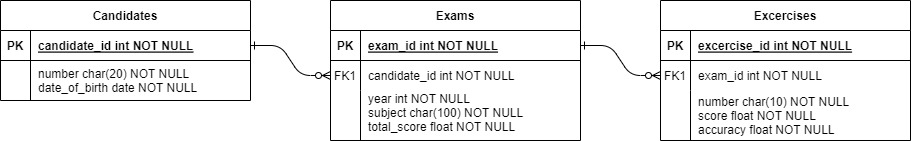
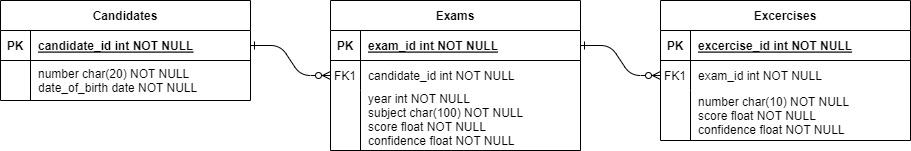
refactoring accuracy to confidence & added to exam

diff --git a/backend/app/core/database_handler.py b/backend/app/core/database_handler.py
@@ -34,7 +34,8 @@ def insert_exam(exam, db_candidate):
     db_exam = Exam.get_or_none(
         year=exam[Exam.year.name],
         subject=exam[Exam.subject.name],
-        # total_score=exam[Exam.total_score.name],
+        # score=exam[Exam.score.name],
+        # confidence=exam[Exam.confidence.name],
         candidate=db_candidate
     )
 
@@ -43,7 +44,8 @@ def insert_exam(exam, db_candidate):
         db_exam = Exam.create(
             year=exam[Exam.year.name],
             subject=exam[Exam.subject.name],
-            total_score=exam[Exam.total_score.name],
+            score=exam[Exam.score.name],
+            confidence=exam[Exam.confidence.name],
             candidate=db_candidate
         )
     else:
@@ -62,7 +64,7 @@ def insert_exercise(exercise, db_exam):
     db_exercise = Exercise.get_or_none(
         number=exercise[Exercise.number.name],
         # score=exercise[Exercise.score.name],
-        # accuracy=exercise[Exercise.accuracy.name],
+        # confidence=exercise[Exercise.confidence.name],
         exam=db_exam
     )
 
@@ -71,7 +73,7 @@ def insert_exercise(exercise, db_exam):
         db_exercise = Exercise.create(
             number=exercise[Exercise.number.name],
             score=exercise[Exercise.score.name],
-            accuracy=exercise[Exercise.accuracy.name],
+            confidence=exercise[Exercise.confidence.name],
             exam=db_exam
         )
     else:
@@ -183,7 +185,7 @@ def save_scan_db(cv_data: cv_res.CVResult):
     return exam_id
 
 
-def update_exam(exam_id, exam):
+def update_exam(exam_id, exam, confidence):
     """
     DB update @Exam
     """
@@ -193,13 +195,14 @@ def update_exam(exam_id, exam):
     except DoesNotExist:
         return False
 
-    db_exam.total_score = exam.total_score
+    db_exam.score = exam.score
+    db_exam.confidence = confidence
     db_exam.save()
 
     return True
 
 
-def update_exercise(exercise_id, exercise, accuracy):
+def update_exercise(exercise_id, exercise, confidence):
     """
     DB update @Exercise
     """
@@ -210,7 +213,7 @@ def update_exercise(exercise_id, exercise, accuracy):
         return False
 
     db_exercise.score = exercise.score
-    db_exercise.accuracy = accuracy
+    db_exercise.confidence = confidence
     db_exercise.save()
 
     return True

diff --git a/backend/app/core/scanner.py b/backend/app/core/scanner.py
@@ -63,7 +63,7 @@ def validate_cv_result(cv_data):
 
     message = None
 
-    if cv_data.exam.total_score != cv_data.exam.calc_total_score():
+    if cv_data.exam.score != cv_data.exam.calc_excercises_score():
         message = const.Validation.W_SCORE_EQ
 
     return message
@@ -77,8 +77,8 @@ def get_dummy_cv_result():
     import json
 
     json_data = '{"candidate":{"number":"CHSG-23.123","date_of_birth":"2010-01-01"},"exam":{"year":2023,' \
-                '"subject":"ABC English","total_score":4,"exercises":[{"number":"1.a","score":1.75,' \
-                '"accuracy":0.88},{"number":"1.b","score":2.00,"accuracy":0.98}]}}'
+                '"subject":"ABC English","score":4,"exercises":[{"number":"1.a","score":1.75,' \
+                '"confidence":0.88},{"number":"1.b","score":2.00,"accuracy":0.98}]}}'
 
     data_dict = json.loads(json_data)
 
@@ -88,9 +88,9 @@ def get_dummy_cv_result():
     exam_data = data_dict['exam']
     exercises = []
     for exercise_data in exam_data['exercises']:
-        exercise = cv_res.ExamExercise(exercise_data['number'], exercise_data['score'], exercise_data['accuracy'])
+        exercise = cv_res.Exercise(exercise_data['number'], exercise_data['score'], exercise_data['confidence'])
         exercises.append(exercise)
 
-    exam = cv_res.Exam(exam_data['year'], exam_data['subject'], exam_data['total_score'], exercises)
+    exam = cv_res.Exam(exam_data['year'], exam_data['subject'], exam_data['score'], exercises)
 
     return cv_res.CVResult(candidate, exam)

diff --git a/backend/app/core/admin.py b/backend/app/core/admin.py
@@ -12,11 +12,13 @@ def build_exam_full(exam):
     # candidate
     candidate = db.read_candidate(exam[model.Exam.candidate.name])
 
+    # exam
     exam_rs = ExamFull(
         id=exam[model.Exam.id.name],
         year=exam[model.Exam.year.name],
         subject=exam[model.Exam.subject.name],
-        total_score=exam[model.Exam.total_score.name],
+        score=exam[model.Exam.score.name],
+        confidence=exam[model.Exam.confidence.name],
         candidate=Candidate(
             id=candidate[model.Candidate.id.name],
             number=candidate[model.Candidate.number.name],
@@ -74,7 +76,7 @@ def update_exam(exam_id, exam):
     Update existing exam
     """
 
-    return BaseResponse(success=db.update_exam(exam_id, exam))
+    return BaseResponse(success=db.update_exam(exam_id, exam, const.Exam.CONFIDENCE_MAX))
 
 
 def update_exercise(exercise_id, exercise):
@@ -82,4 +84,4 @@ def update_exercise(exercise_id, exercise):
     Update existing exercise
     """
 
-    return BaseResponse(success=db.update_exercise(exercise_id, exercise, const.Exercise.ACCURACY_MAX))
+    return BaseResponse(success=db.update_exercise(exercise_id, exercise, const.Exercise.CONFIDENCE_MAX))

diff --git a/backend/app/api/router.py b/backend/app/api/router.py
@@ -1,5 +1,5 @@
 from fastapi import APIRouter, HTTPException
-from .schema import BaseResponse, ExamFullResponse, ExamFullListResponse, ExamTotalScore, ExerciseScore
+from .schema import BaseResponse, ExamFullResponse, ExamFullListResponse, Score
 import core.admin as admin
 import core.scanner as scanner
 import util.constant as const
@@ -29,7 +29,7 @@ async def get_exam(examId: int):
 
 
 @router.post("/exams/{examId}", response_model=BaseResponse, response_model_exclude_none=True)
-async def post_exam(examId: int, exam: ExamTotalScore):
+async def post_exam(examId: int, exam: Score):
     """
     Update existing exam
     """
@@ -57,7 +57,7 @@ async def get_exams(year: int = None, subject: str = None):
 
 
 @router.post("/exercises/{exercisesId}", response_model=BaseResponse, response_model_exclude_none=True)
-async def post_exercise(exercisesId: int, exercise: ExerciseScore):
+async def post_exercise(exercisesId: int, exercise: Score):
     """
     Update existing exercise
     """

diff --git a/backend/app/main.py b/backend/app/main.py
@@ -1,18 +1,17 @@
 from fastapi import FastAPI
 from api import router
-import model.database as db
-import model.model as model
+from model import database, model
 
 # run app
 app = FastAPI()
 app.include_router(router.router)
 
 # run db
-db.db.connect()
-db.db.create_tables(model.get_models())
+database.db.connect()
+database.db.create_tables(model.get_models())
 
 # dummy data to run
 candidate = model.Candidate.create(number='1', date_of_birth='1990-01-01')
-exam = model.Exam.create(year='2017', subject='Math', total_score=14.5, candidate=candidate)
-model.Exercise.create(number='1', score=10, accuracy=0.8, exam=exam)
-model.Exercise.create(number='2', score=4.5, accuracy=0.7, exam=exam)
+exam = model.Exam.create(year='2017', subject='Math', score=14.5, confidence=0.9, candidate=candidate)
+model.Exercise.create(number='1', score=10, confidence=0.8, exam=exam)
+model.Exercise.create(number='2', score=4.5, confidence=0.7, exam=exam)

diff --git a/backend/app/api/schema.py b/backend/app/api/schema.py
@@ -18,36 +18,34 @@ class Exam(BaseModel):
     id: int
     year: int
     subject: str
-    total_score: float
+    score: float
+    confidence: float
 
 
 class Exercise(BaseModel):
     id: int
     number: str
     score: float
-    accuracy: float
+    confidence: float
 
 
 class ExamFull(BaseModel):
     id: int
     year: int
     subject: str
-    total_score: float
+    score: float
+    confidence: float
     candidate: Candidate
     exercises: list[Exercise]
-
-
-class ExamFullResponse(BaseResponse, BaseModel):
-    exam: Optional[ExamFull] = None
 
 
 class ExamFullListResponse(BaseResponse, BaseModel):
     exams: list[ExamFull]
 
 
-class ExamTotalScore(BaseModel):
-    total_score: float
+class ExamFullResponse(BaseResponse, BaseModel):
+    exam: Optional[ExamFull] = None
 
 
-class ExerciseScore(BaseModel):
+class Score(BaseModel):
     score: float

diff --git a/backend/app/core/cv_result.py b/backend/app/core/cv_result.py
@@ -11,18 +11,19 @@ class Candidate:
 
 
 class Exam:
-    def __init__(self, year, subject, total_score, exercises):
+    def __init__(self, year, subject, score, confidence, exercises):
         self.year = year
         self.subject = subject
-        self.total_score = total_score
+        self.score = score
+        self.confidence = confidence
         self.exercises = exercises
 
-    def calc_total_score(self):
+    def calc_exc_score(self):
         return sum(exercise.score for exercise in self.exercises)
 
 
-class ExamExercise:
-    def __init__(self, number, score, accuracy):
+class Exercise:
+    def __init__(self, number, score, confidence):
         self.number = number
         self.score = score
-        self.accuracy = accuracy
+        self.confidence = confidence

diff --git a/backend/app/model/model.py b/backend/app/model/model.py
@@ -19,7 +19,8 @@ class Exam(Model):
     id = AutoField()
     year = IntegerField()
     subject = CharField(max_length=100)
-    total_score = FloatField()
+    score = FloatField()
+    confidence = FloatField()
     candidate = ForeignKeyField(Candidate, backref='exams')
 
     class Meta:
@@ -30,7 +31,7 @@ class Exercise(Model):
     id = AutoField()
     number = CharField(max_length=10)
     score = FloatField()
-    accuracy = FloatField()
+    confidence = FloatField()
     exam = ForeignKeyField(Exam, backref='exercises')
 
     class Meta:

diff --git a/backend/app/util/constant.py b/backend/app/util/constant.py
@@ -7,8 +7,12 @@ class Entity:
     EXERCISES = "exercises"
 
 
+class Exam:
+    CONFIDENCE_MAX = 1
+
+
 class Exercise:
-    ACCURACY_MAX = 1
+    CONFIDENCE_MAX = 1
 
 
 class Candidate:
@@ -24,4 +28,4 @@ class Message:
 
 
 class Validation:
-    W_SCORE_EQ = "Warning: The total score of the exam is unequal to the sum of the scores of the associated exercises"
+    W_SCORE_EQ = "Warning: The score of the exam is unequal to the sum of the scores of the associated exercises"
